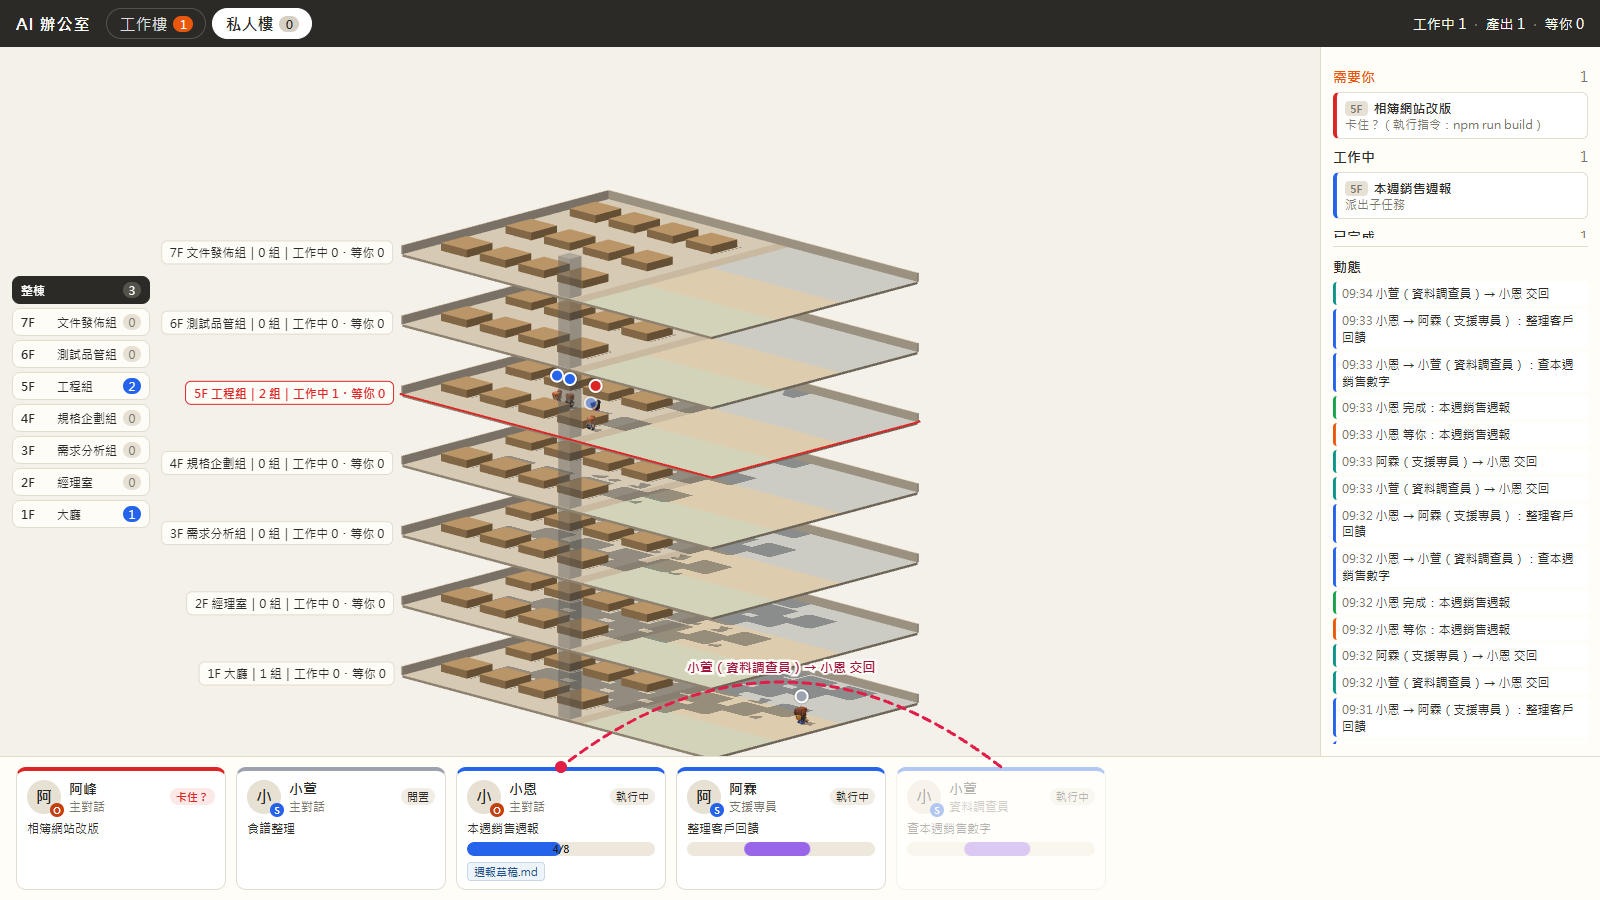
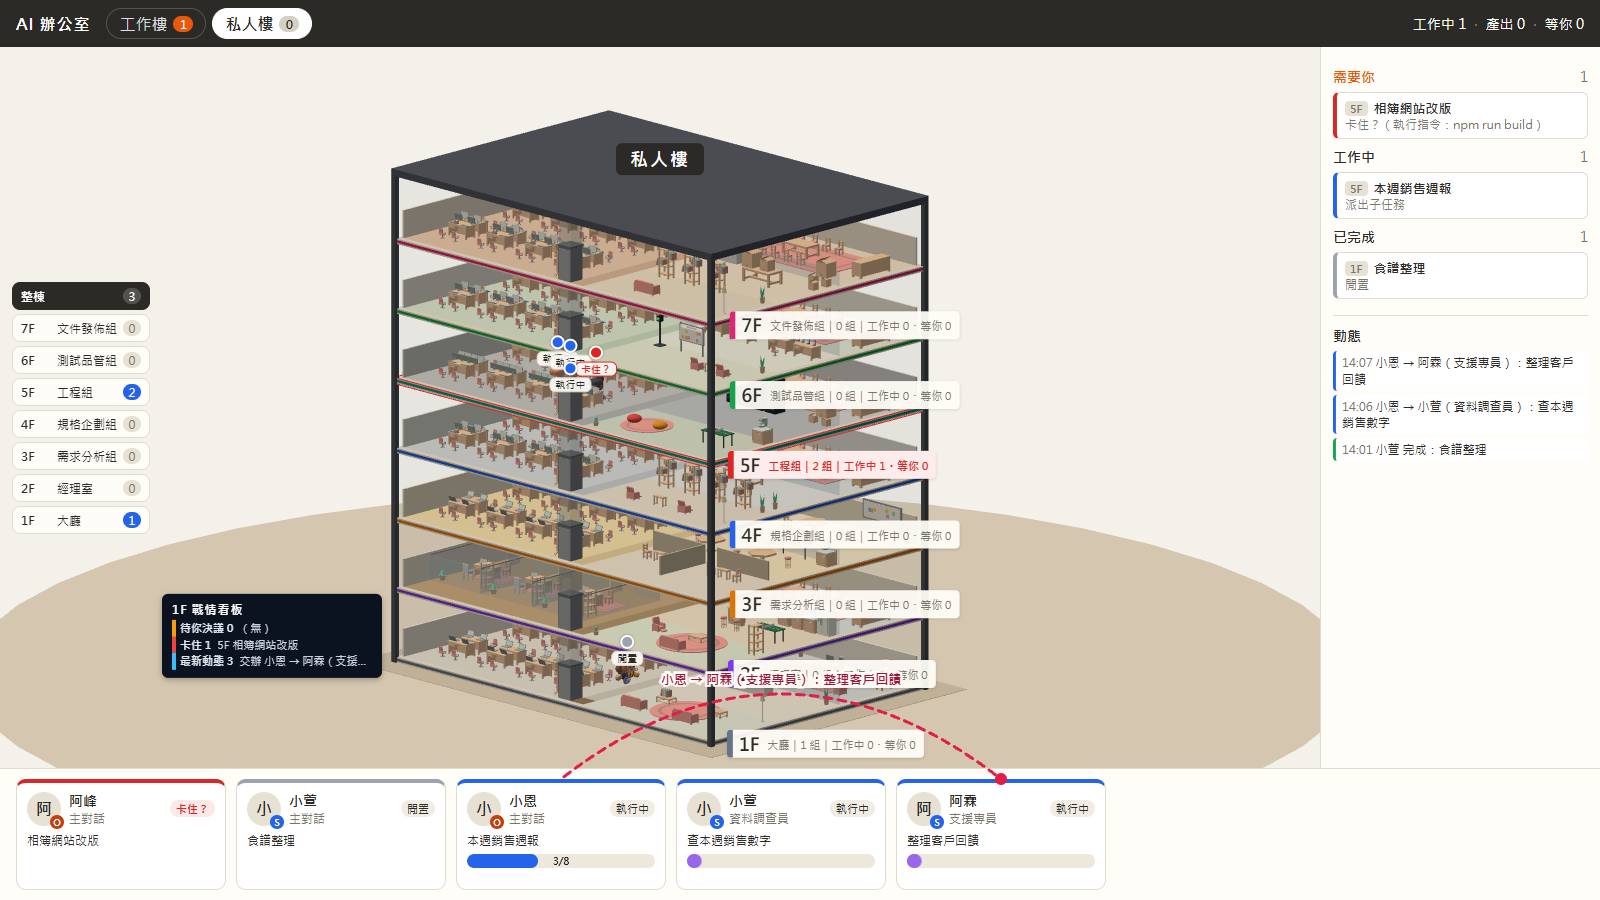
README 主圖換成新的整棟視圖（各層主題色與 1F 戰情看板卡片）

diff --git a/README.md b/README.md
@@ -4,7 +4,7 @@
 
 > **English summary** — AI Office turns every Claude Code conversation on your machine into a small team in a 3D isometric office: names, job titles, model badges and status bubbles (in Traditional Chinese), staff cards with progress bars and output files, an activity feed, and hand-off arcs when sub-agents are sent out. It only reads Claude Code's local transcripts, serves on `127.0.0.1` only, and uploads nothing. Requires Node.js 24. `npm install && npm run build && npm start`, then open <http://127.0.0.1:5188/>; `npm run demo` shows a scripted demo with made-up data. Each conversation sits on the floor of the department its current skill belongs to (built-in: five speclink departments on 3F–7F, everyone else in the 1F lobby) and rides the elevator when it switches skills. The page opens on a cutaway of the whole building; pick a floor to see it in detail. Buildings (e.g. a masked "work" building) and departments are configured in `~/.ai-office/config.json` — see `config.example.json`. Tested on Windows only.
 
-![整棟視圖（示範模式）：每層一片樓板，5F 有人卡住所以亮紅框](docs/整棟視圖.png)
+![整棟視圖（示範模式）：每層一片樓板、各層主題色不同，5F 有人卡住所以亮紅框，左下是 1F 戰情看板卡片](docs/整棟視圖.png)
 
 - **只在本機**：伺服器只聽 `127.0.0.1`，不自動開瀏覽器，不寫 log 檔，不上傳任何東西。
 - **只讀不寫**：只讀 `~/.claude/projects` 底下的對話紀錄，不寫入任何檔案。專案資料夾只有兩個例外，而且只限**沒有遮罩**的棟：讀正在處理的 speclink／spectra 變更的 `tasks.md` 算進度；你點產出標籤時，讀那個對話今天寫過的檔案來預覽。
